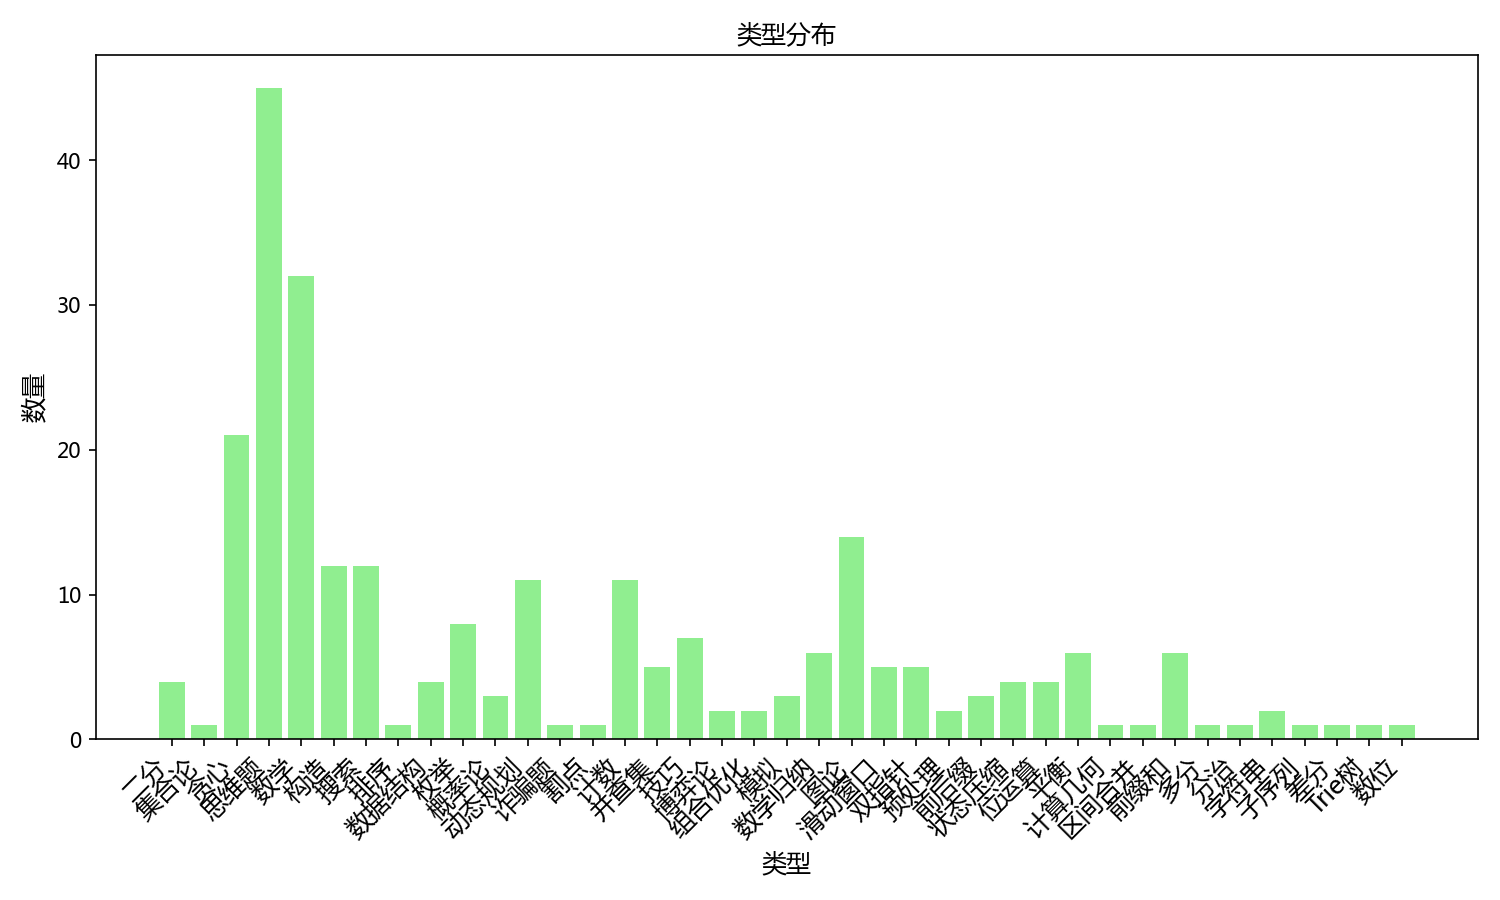
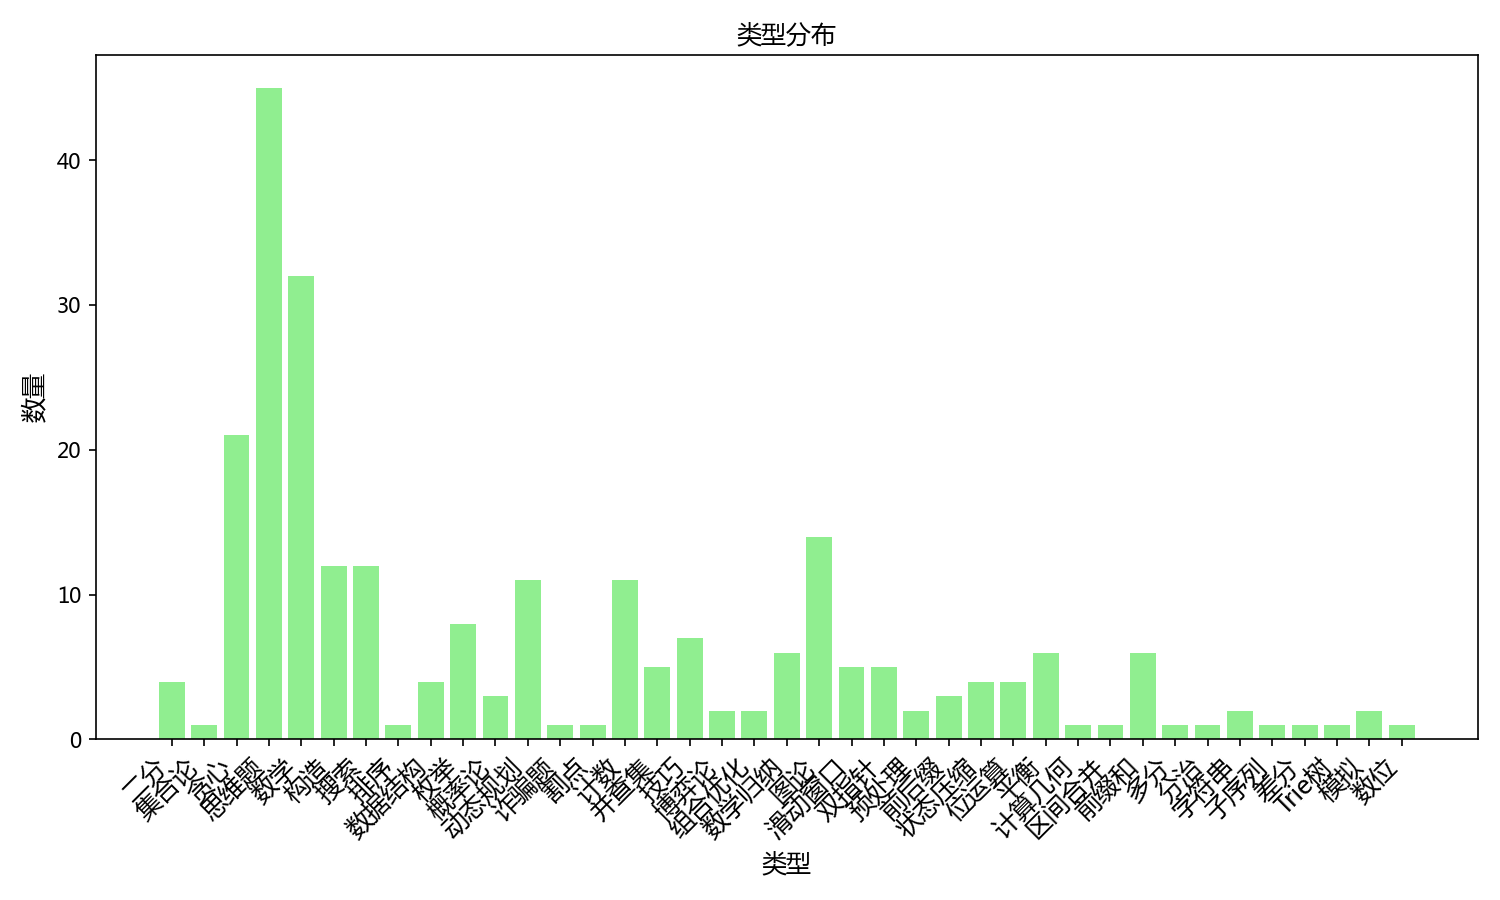
Revert "自动提交生成的文件"
This reverts commit 0db2d8f601e81a2c1cf8b240de478eb41d6d3bcc.

diff --git a/assets/scripts/UserPersonalSpace/users_html/JNMC孙国庆.html b/assets/scripts/UserPersonalSpace/users_html/JNMC孙国庆.html
@@ -270,7 +270,7 @@
         <rect class="day" width="11" height="11" y="0" fill="#f2f2f2" data-item="0" data-date="03/10/2025"></rect>
 <rect class="day" width="11" height="11" y="13" fill="#f2f2f2" data-item="0" data-date="03/11/2025"></rect>
 <rect class="day" width="11" height="11" y="26" fill="#37c043" data-item="1" data-date="03/12/2025"></rect>
-<rect class="day" width="11" height="11" y="39" fill="#37c043" data-item="1" data-date="03/13/2025"></rect>
+<rect class="day" width="11" height="11" y="39" fill="#f2f2f2" data-item="0" data-date="03/13/2025"></rect>
 <rect class="day" width="11" height="11" y="52" fill="#f2f2f2" data-item="0" data-date="03/14/2025"></rect>
 <rect class="day" width="11" height="11" y="65" fill="#f2f2f2" data-item="0" data-date="03/15/2025"></rect>
 <rect class="day" width="11" height="11" y="78" fill="#f2f2f2" data-item="0" data-date="03/16/2025"></rect>
@@ -665,7 +665,7 @@
         <div class="box-container">
             <div class="_UserActivityFrame_countersRow">
                 <div class="_UserActivityFrame_counter">
-                    <div class="_UserActivityFrame_counterValue">117 篇</div>
+                    <div class="_UserActivityFrame_counterValue">116 篇</div>
                     <div class="_UserActivityFrame_counterDescription">总文章数</div>
                 </div>
             </div>
@@ -1373,12 +1373,6 @@
         <div class="blog-post">
             <button class="blog-button" onclick="window.location.href='/刷题模块/OJ/牛客/牛客竞赛语法入门班数组字符串习题/div3_{数学;数学归纳}_牛客_wyh的矩阵.md/'">
                 wyh的矩阵
-            </button>
-        </div>
-        
-        <div class="blog-post">
-            <button class="blog-button" onclick="window.location.href='/刷题模块/OJ/牛客/牛客竞赛语法入门班数组字符串习题/div5_{模拟}_牛客_蛇形矩阵.md/'">
-                蛇形矩阵
             </button>
         </div>
         

diff --git a/刷题模块/OJ/index.html b/刷题模块/OJ/index.html
@@ -118,10 +118,6 @@
   <a href="牛客/周赛60/div4_{数学;思维题}_牛客_我们N个实在太厉害了.md">我们N个实在太厉害了</a>
   <div class="problem-meta">难度: div4 | 类型: 数学, 思维题 | OJ: 牛客</div>
 </div>
-<div class="problem-item div5">
-  <a href="牛客/牛客竞赛语法入门班数组字符串习题/div5_{模拟}_牛客_蛇形矩阵.md">蛇形矩阵</a>
-  <div class="problem-meta">难度: div5 | 类型: 模拟 | OJ: 牛客</div>
-</div>
 <div class="problem-item div3">
   <a href="牛客/牛客竞赛语法入门班数组字符串习题/div3_{数学;数学归纳}_牛客_wyh的矩阵.md">wyh的矩阵</a>
   <div class="problem-meta">难度: div3 | 类型: 数学, 数学归纳 | OJ: 牛客</div>

diff --git a/刷题模块/OJ/README.md b/刷题模块/OJ/README.md
@@ -30,7 +30,6 @@ published: false
 | [**狠狠地算吗**](牛客/杂/div5_{贪心;数学;思维题}_牛客_狠狠地算吗.md) | div5 | 贪心, 数学, 思维题 | 牛客 |
 | [**生物繁育问题**](牛客/杂/div5_{数学;思维题}_牛客_生物繁育问题.md) | div5 | 数学, 思维题 | 牛客 |
 | [**我们N个实在太厉害了**](牛客/周赛60/div4_{数学;思维题}_牛客_我们N个实在太厉害了.md) | div4 | 数学, 思维题 | 牛客 |
-| [**蛇形矩阵**](牛客/牛客竞赛语法入门班数组字符串习题/div5_{模拟}_牛客_蛇形矩阵.md) | div5 | 模拟 | 牛客 |
 | [**wyh的矩阵**](牛客/牛客竞赛语法入门班数组字符串习题/div3_{数学;数学归纳}_牛客_wyh的矩阵.md) | div3 | 数学, 数学归纳 | 牛客 |
 | [**不公平对局**](牛客/周赛80/div3_{动态规划;数学;搜索;数学归纳;概率论}_牛客_不公平对局.md) | div3 | 动态规划, 数学, 搜索, 数学归纳, 概率论 | 牛客 |
 | [**举手赢棋easy**](牛客/周赛80/div4_{思维题}_牛客_举手赢棋easy.md) | div4 | 思维题 | 牛客 |
